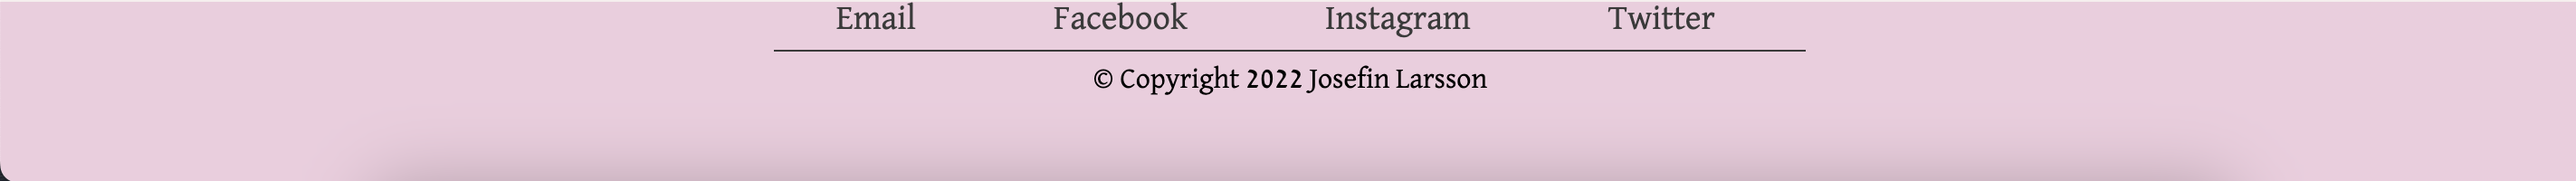
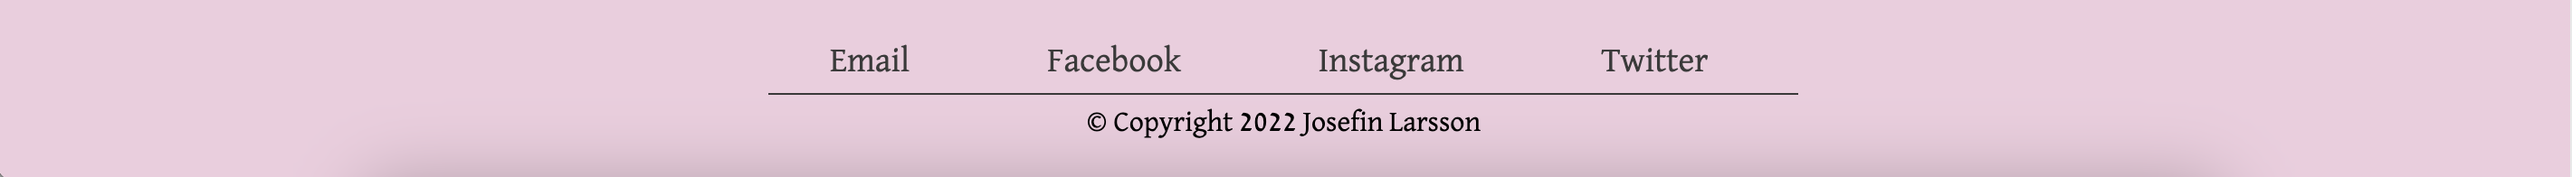
Add further content README.md

diff --git a/README.md b/README.md
@@ -1,82 +1,94 @@
 # Frida Kahlo
 
-This website is about the historical Mexican artist Frida Kahlo. Famous globally for her art as well as her lifestory. The website's intention is to give a brief introduction to the artist and show selected pieces from her portfolio. Additionally it links to further resources for the user to gain more knowledge. The Frida Kahlo website, will be targeted against, and is useful for, art lovers who are curious about Frida Kahlo and would like a short introduction.
+The website is about the historical Mexican artist Frida Kahlo. Famous globally for her art as well as her lifestory. The website's intention is to give a brief introduction to the artist and show selected pieces from her portfolio. Additionally it links to further resources for the user to gain more knowledge. The Frida Kahlo website, will be targeted against, and is useful for, art lovers who are curious about Frida Kahlo and would like a short introduction.
 
 <img src="assets/images/Responsive-device-overview.png">
+
+# Project Goal
+To show the developers ability to build a responsive website using HTML and CSS only.
+
+# User
+
+## Target Audience
+<li>People who have heard about Frida Kahlo and are interested to view a short introductory website.</li>
+
 
 # Features
 
 ## Existing Features
 
 ### Navigation Bar
-Featured on all three pages, the full responsive navigation bar includes links to the Logo on the left, and Home page, Learn More and Gallery on the right and is identical on all pages to allow for easy navigation.
-This section will allow the user to easily navigate from page to page across all devices without having to revert back to the previous page via the ‘back’ button. 
+<li>Featured on all three pages, the full responsive navigation bar includes links to the Logo on the left, and Home page, Learn More and Gallery on the right and is identical on all pages to allow for easy navigation.
+This section will allow the user to easily navigate from page to page across all devices without having to revert back to the previous page via the ‘back’ button.</li>
 
 <img src="assets/images/Navigation.png">
 
 
 ### The landing page image
-The landing includes a photograph showing the top half of the artists face as an eye catching, artistic image to grab the users attention. 
+<li>The landing includes a photograph showing the top half of the artists face as an eye catching, artistic image to grab the users attention.</li> 
 
 <img src="assets/images/hero-image-screenshot.png">
 
 ### Her Life/Her Career/Her Legacy
-The three home page information sections summarise selected information about the artists lifestory in three identically styled sections, with the exception of image content, and the additon of a thin line to separate the sections.  This showcases the websites main informational content on the homepage for easy access to the main information required by the user.
+<li>The three home page information sections summarise selected information about the artists lifestory in three identically styled sections, with the exception of image content, and the additon of a thin line to separate the sections.  This showcases the websites main informational content on the homepage for easy access to the main information required by the user.</li>
 
 <img src="assets/images/her-life-screenshot.png">
 <img src="assets/images/her-career-screenshot.png">
 <img src="assets/images/her-legacy-screenshot.png">
 
 ### The Footer
-The Footer section includes links to the relevant social media sites for Frida Kahlo. The links will open to a new tab to allow easy navigation for the user. Additionally there is a link to contact the website owner via email. Below copyright information has been added. 
+<li>The Footer section includes links to the relevant social media sites for Frida Kahlo. The links will open to a new tab to allow easy navigation for the user. Additionally there is a link to contact the website owner via email. Below copyright information has been added. 
 The footer is valuable to the user as it encourages them to keep connected via social media.
-The footer is repeated in identical format across all three pages for repetition and easy access.
- <img src="#">
+The footer is repeated in identical format across all three pages for repetition and easy access.</li>
+ <img src="assets/images/footer-screenshot.png">
 
 ### Learn more
-The Learn more page has identical navigation bar, landing page-image and footer for repetition and familiarity.
+<li>The Learn more page has identical navigation bar, landing page-image and footer for repetition and familiarity.</li>
 
 
 ### Learn more - additional resources section
-The section includes four clickable links to external websites (all opening in a new tab). The purpose of this section is for the user to continue to seek further information as well as verify the summarised facts presented on the current website.
+<li>The section includes four clickable links to external websites (all opening in a new tab). The purpose of this section is for the user to continue to seek further information as well as verify the summarised facts presented on the current website.</li>
 
-<img src="#">
+<img src="assets/images/add-resources-screenshot.png">
 
 ### Gallery
-The Gallery page repeats the navigation bar and footer from previous pages. Additionally it contains a simple image gallery showcasing selected pieces of the artists work. This section is valuable for the user to get an initial understanding of the artists style.
- <img src="#">
+<li>The Gallery page repeats the navigation bar and footer from previous pages. Additionally it contains a simple image gallery showcasing selected pieces of the artists work. This section is valuable for the user to get an initial understanding of the artists style.</li>
+ <img src="assets/images/gallery-screenshot.png">
 
 
 ## Features Left to Implement
 
 ### Home
-Add more information paragraphs to provide further details about the artist. 
+<li>Add more information paragraphs to provide further details about the artist.</li> 
 
 ### Learn more
-Add more external links and improve styling. Add images.
+<li>Add more external links, information and improve styling. Add images.</li>
 
 ### Gallery
-Add information and external links about the artwork as well as more styling. 
+<li>Add information and external links about the artwork as well as more styling.</li>
+
+### Footer
+<li>Add additional styling.</li>
 <hr>
 
-## Design
-### Colour Scheme
+# Design
+
+## Colour Scheme
 
 <img src="assets/images/Colors.png">
+<li>The colour scheme was inspired by the hero image as well as the colourful art which the artist is known for.  Different shades of pink with contrasting text in a classic dark grey tone for clear contrast. The chosen colours bring a soft touch but playful yet classic feel to the website.</li>
 
-The colour scheme was inspired by the hero image as well as the colourful art which the artist is known for.  Different shades of pink with contrasting text in a classic dark grey tone for clear contrast. The chosen colours bring a soft touch to the website. 
 
 ## Typography
 
-Fonts were chosen and imported from Google Fonts.
+<ul><li>Fonts were chosen and imported from Google Fonts.</li>
+<li>Headings and Logo: Roboto serif.
+Other text: David Libre.</li>
+<li>Both were chosen for their classic yet artistic appearance.</li></ul>
 
-Headings and Logo: Roboto serif.
-Other text: David Libre.
-
-Both were chosen for their classic yet artful appearance.
 <hr>
 
-## Testing
+# Testing
 
 <ul>
 <li>Manual testing of internal navigation links which are verified to function well across all three pages.</li>
@@ -88,20 +100,22 @@ Both were chosen for their classic yet artful appearance.
 </ul>
 
 ## Responsive devices
-add info on what screen resolutions are tested and work
+<li>#</li
 
-## Validator Testing
+<br>
+
+## Validator testing
 
 #### HTML
-No errors were found when passing through the official W3C validator
+<li>No errors were found when passing through the official W3C validator.</li>
 <img src="assets/images/w3c-validator.png">
 
 #### CSS
-No errors were found when passing through the official (Jigsaw) validator
+<li>No errors were found when passing through the official (Jigsaw) validator.</li>
 <img src="assets/images/w3c-css-validator.png">
 
 #### LIGHT HOUSE
-Light House test performed with the below result.
+<li>Light House test performed with the below result.</li>
 
 ##### Home page
 <img src="assets/images/lighthouse-homepage.png">
@@ -116,24 +130,28 @@ Light House test performed with the below result.
 ### Fixed Bugs
  <ul>
  <li>Repaired styling errors</li>
+ <li>Repaired missing closing tags</li>
+ <li>Reapired missing attributes</li>
  <li>Improved semantic mark-up by replacing some divs with sections.</li>
+ <li>Improved website responsiveness to different screen resolutions.</li>
  </ul>
 
  ### Unfixed Bugs
 <ul>
-<li>Responsiveness</li>
+<li>#</li>
 </ul>
 
 ## Technology Used
-### Languages Used
-<li>HTML and CSS.</li>
+
+### Languages
+HTML and CSS.
 
 ### Tools and libraries
 <ul> 
-<li>Google Fonts - to import fonts.</li>
-<li>Chrome Devtools - for quick testing adjustments.</li>
+<li>Google Fonts- to download all fonts used</li>
+<li>Chrome Dev Tools - for quick testing and live preview adjustments and trouble shooting</li>
 <li>Gitpod - to create and host the website.</li>
-<li>Github - to deploy the website.</li>
+<li>Github- to deploy the website.</li>
 <li>Am I Responsive - to create the image displaying the homepage on multiple devices.</li>
 </ul>
 
@@ -141,34 +159,46 @@ Light House test performed with the below result.
 <hr>
 
 ## Deployment
-<!-- This section should describe the process you went through to deploy the project to a hosting platform (e.g. GitHub)
 
 The site was deployed to GitHub pages. The steps to deploy are as follows:
-In the GitHub repository, navigate to the Settings tab
-From the source section drop-down menu, select the Master Branch
-Once the master branch has been selected, the page will be automatically refreshed with a detailed ribbon display to indicate the successful deployment. -->
+<ul>
+<li>In the GitHub repository navigate to the Settings.
+<img src="assets/images/github-step1.png"></li>
 
-The live link can be found here - https://josefinlarsson.github.io/frida-kahlo/index.html
+<li>From the left-hand menu select Pages.
+<img src="assets/images/github-step2.png"></li>
 
-The github repository can be found here - 
+<li>Under Build and deployment-Source-Branch. Select main branch and save.
+<img src="assets/images/github-step3.png"></li>
+
+<li>Wait a couple of minutes and then refresh the page.
+At the top of the page your live link will be made available.
+<img src="assets/images/github-step4.png"></li>
+</ul>
+
+
+The live link for this project can be found here - https://josefinlarsson.github.io/frida-kahlo/index.html
 
 
 ## Credits
+<ul>
+<li>General code was created from the developers own knowledge gained during Code Institute lessons on learning platform with particular focus on the "Love-Running" lesson project.</li>
 
-General code was created from the developers own knowledge gained during Code Institute lessons on learning platform.
+ <li>Mentor-support and guidance recieved from Sandeep Aggarwal was invaluable to gain better understanding and knowledge of the process as well as insightful tips on styling and semantic formatting as well as help to prioritise.</li>
 
- Mentor-support and guidance recieved from Sandeep Aggarwal was invaluable to gain better understanding of the process.
-
-Additionally research and inspiration was gained from [Stackoverflow.com](https://stackoverflow.com/) and [W3schools.com](https://www.w3schools.com/).<br>
- Exact Copy of code was taken from stackoverflow on one occassion and re-worked slightly into two css rules for classes .intro-hr and .footer-hr. See style.css file.
+<li>Additionally research and inspiration was gained from [Stackoverflow.com](https://stackoverflow.com/) and [W3schools.com](https://www.w3schools.com/).<br>
+ Exact Copy of code was taken from stackoverflow on one occassion and re-worked slightly into two css rules for classes .intro-hr and .footer-hr. See style.css file.</li>
+ </ul>
 
 ## Content
-The text content is written by the web developer and not copied. But inspiration and additional facts were taken from [Wikipedia](https://en.wikipedia.org/wiki/Frida_Kahlo) and [FridaKahlo.org](https://www.fridakahlo.org)
+<li>The text content is written by the web developer and not copied. But inspiration and additional facts were taken from [Wikipedia](https://en.wikipedia.org/wiki/Frida_Kahlo) and [FridaKahlo.org](https://www.fridakahlo.org)</li>
 
 ## Media
-The hero-image is taken from [Pexels.com](http://www.pexels.com)
+<ul>
+<li>The hero-image is taken from [Pexels.com](http://www.pexels.com)</li>
 
-All other images are taken from [FridaKahlo.org](https://www.fridakahlo.org)
+<li>All other images are taken from [FridaKahlo.org](https://www.fridakahlo.org)</li>
+</ul>
 
 
 
